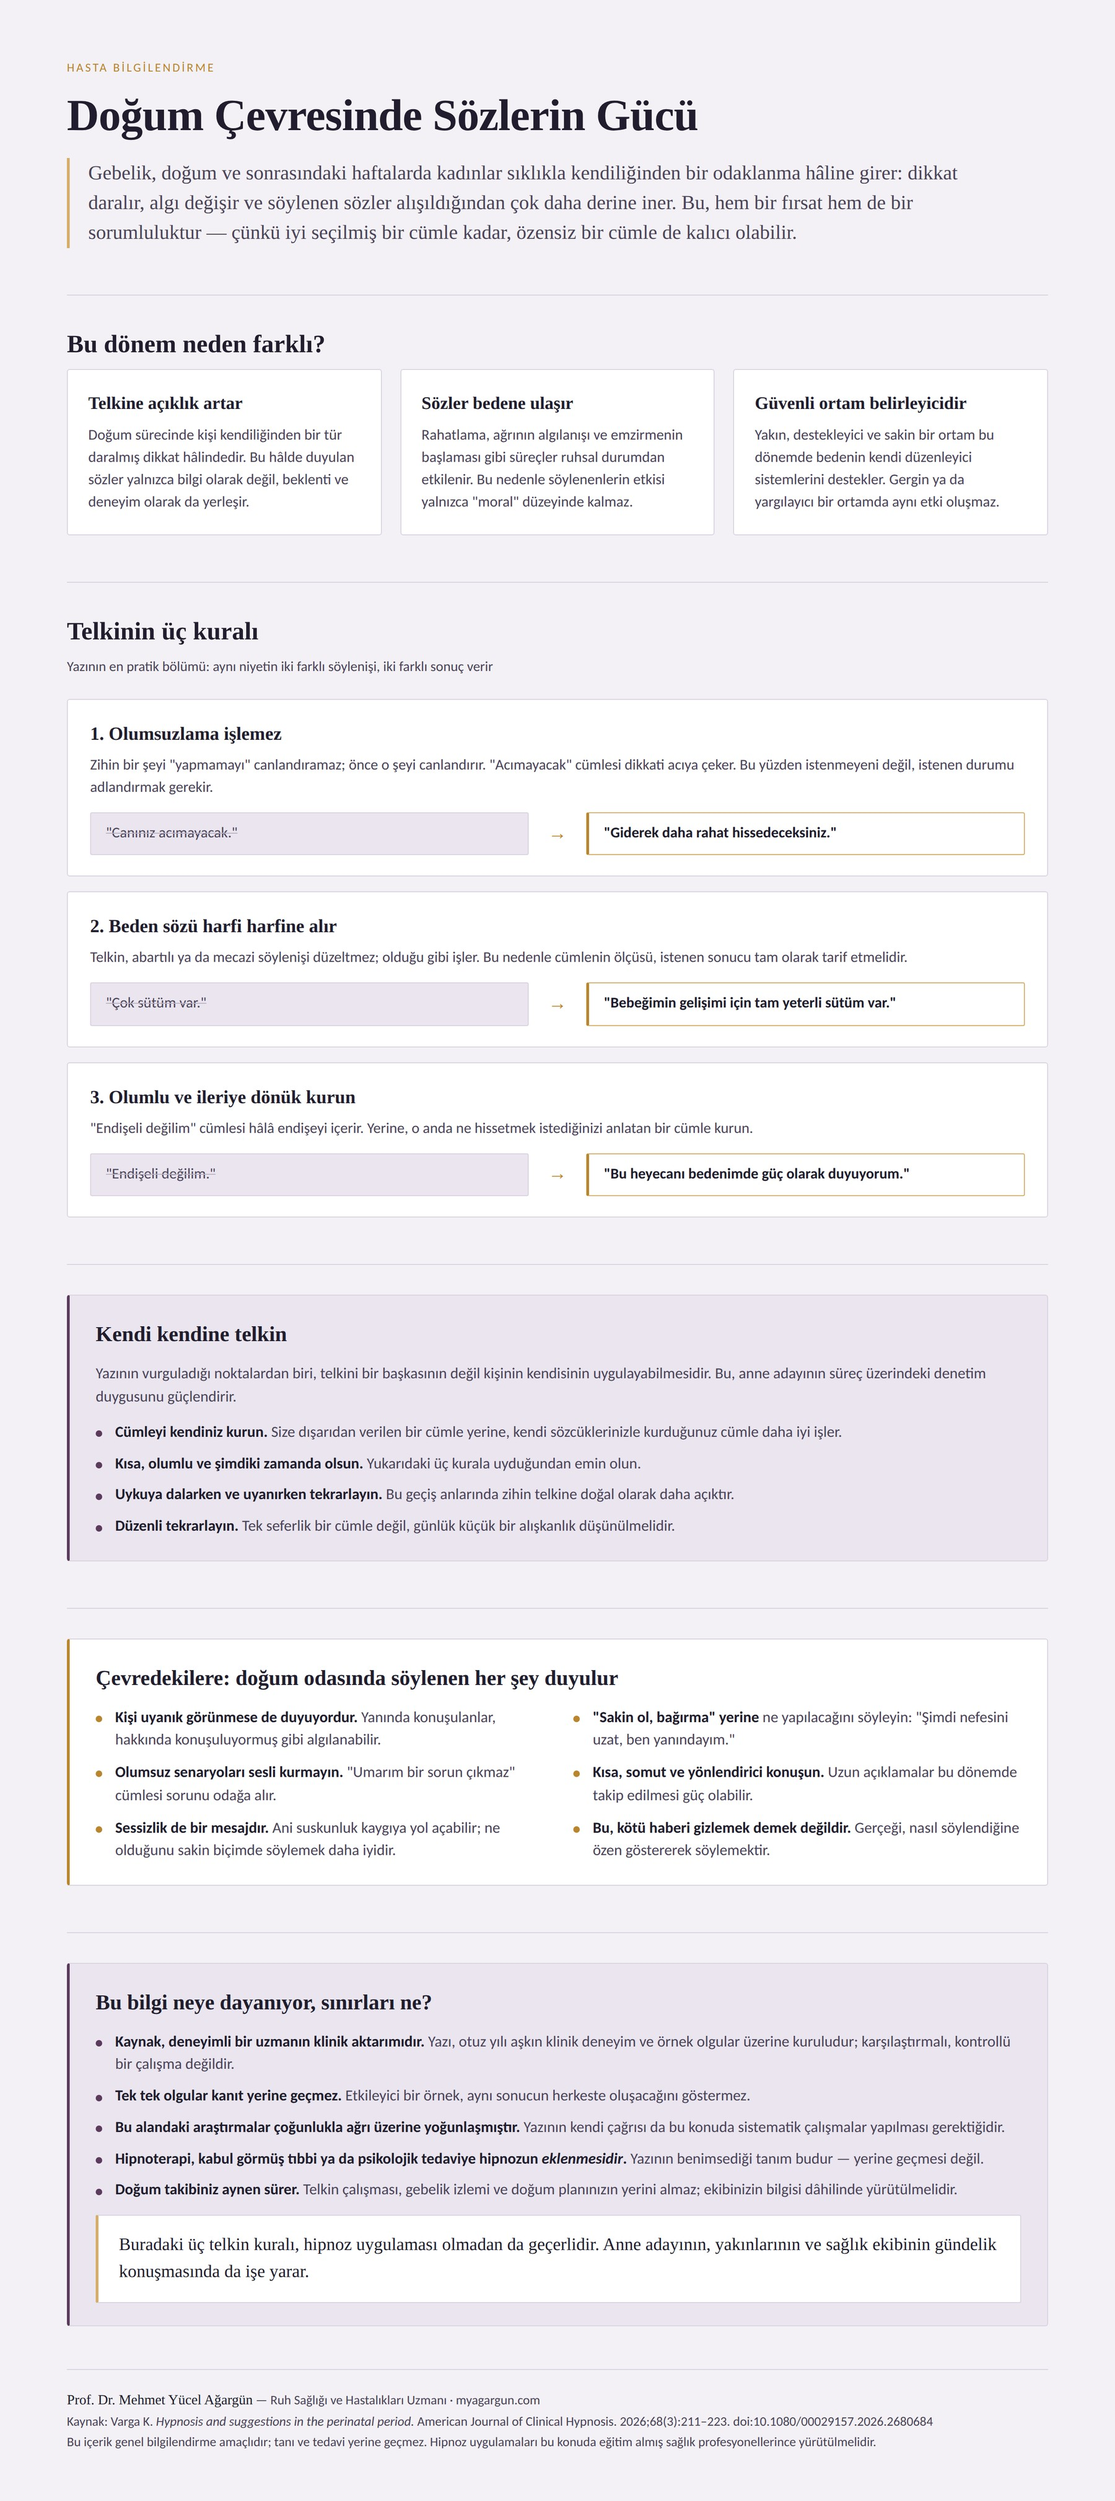
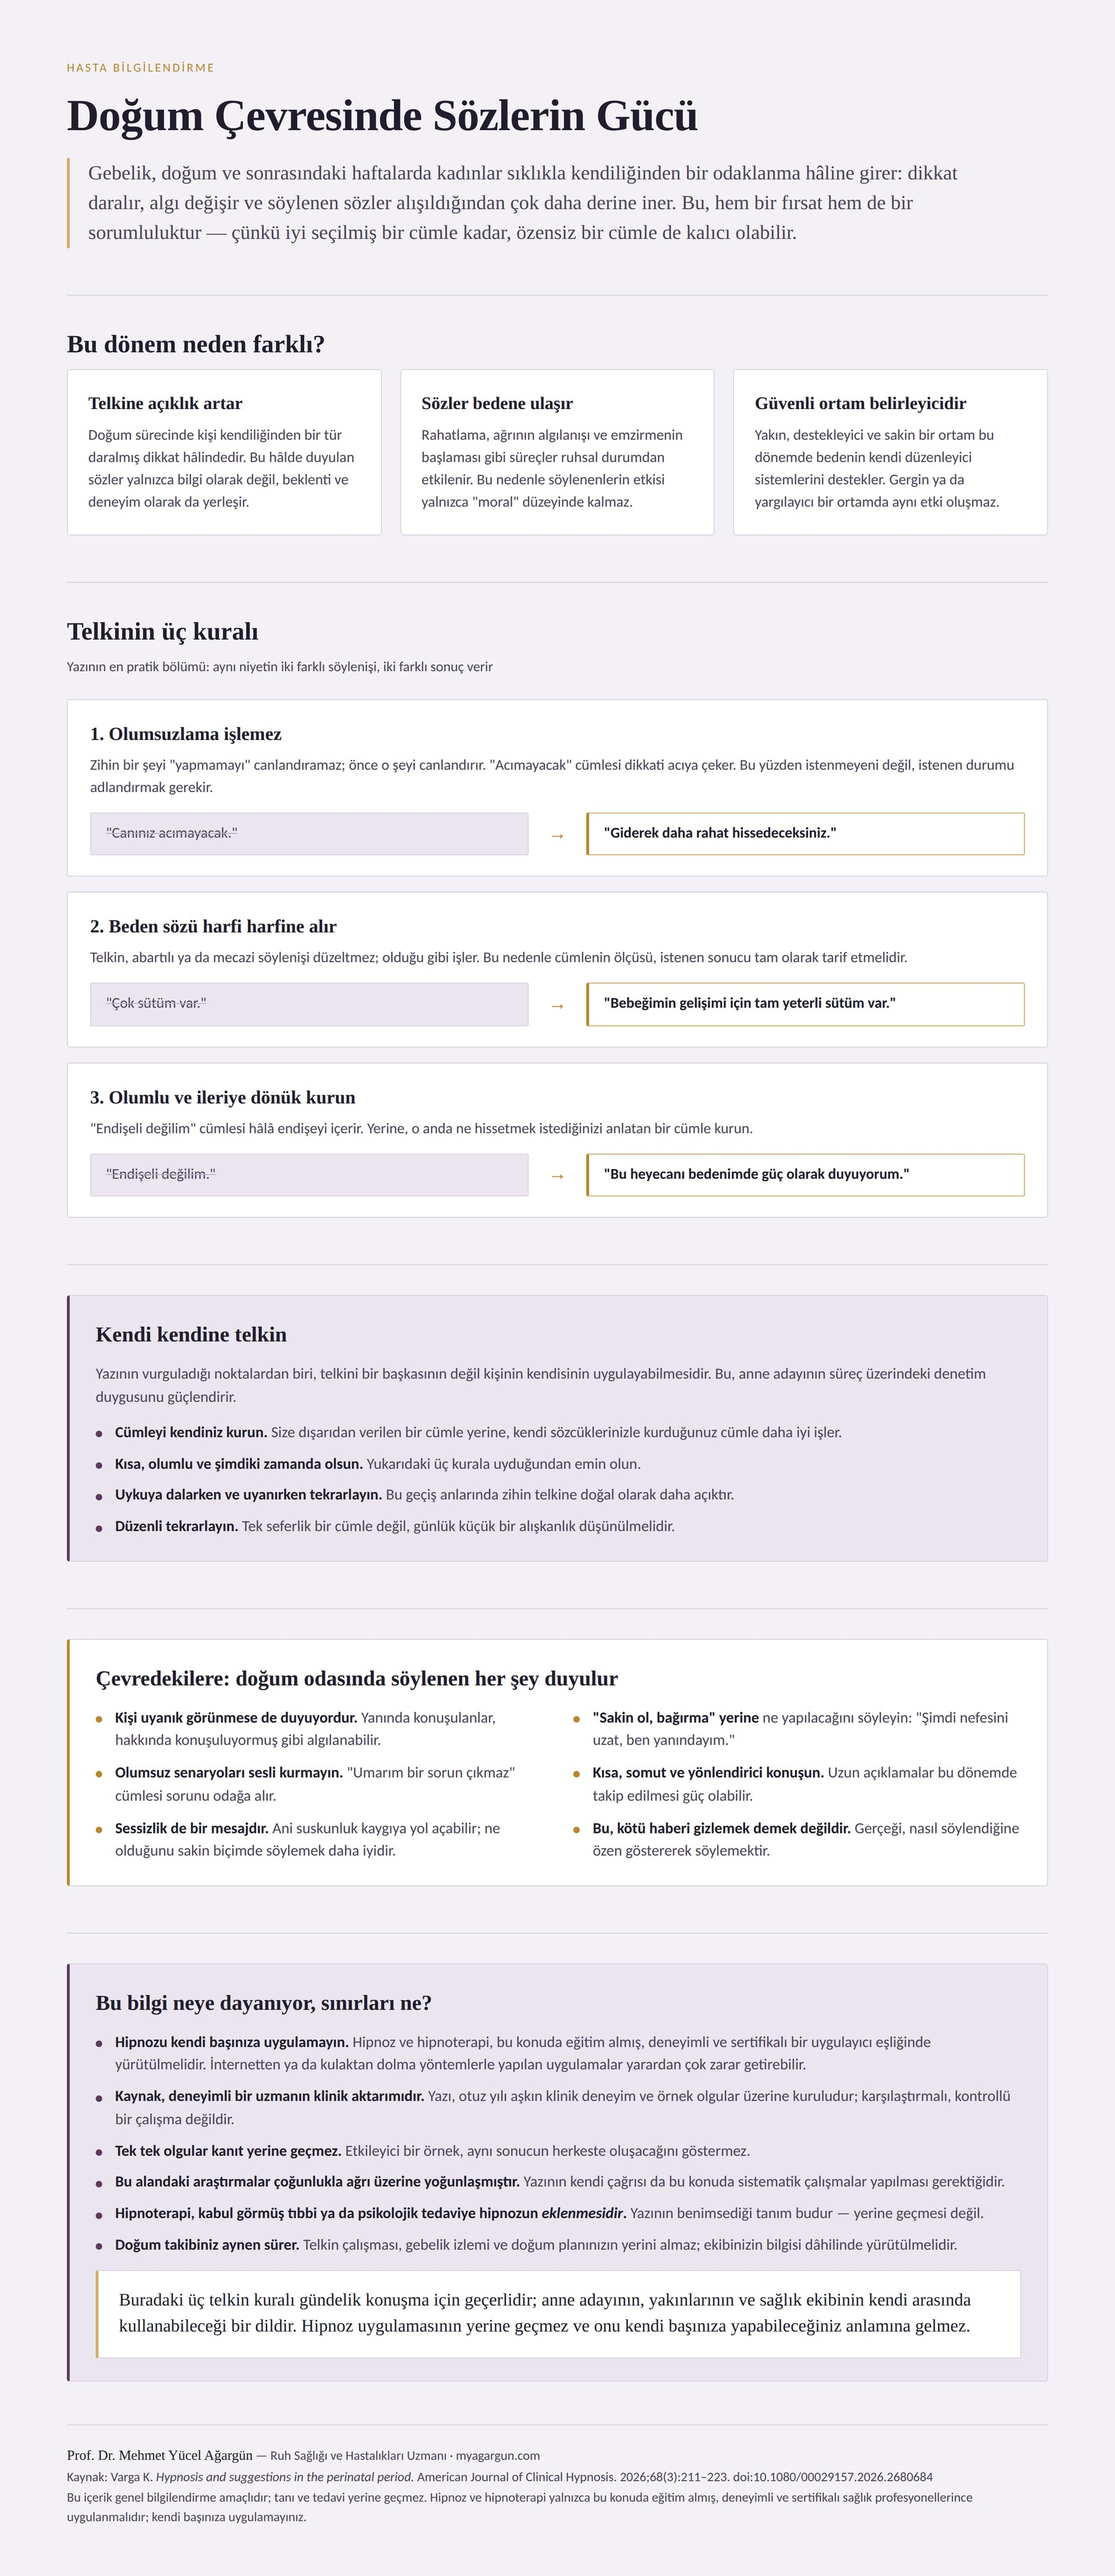
Doğum telkini yazısına hipnozu kendi başına uygulamama uyarısı ekle
Sınırlılıklar bölümünün ilk maddesi olarak eklendi; kapanış cümlesi ve
dipnot da hipnozun eğitimli, deneyimli ve sertifikalı bir uygulayıcı
eşliğinde yürütülmesi gerektiğini belirtecek biçimde güncellendi.
Sayfanın alt metni ve uyarı paragrafı da buna göre yenilendi.

Claude-Session: https://claude.ai/code/session_01JhEv671xvcj7NYuhVkgq1Y

diff --git a/yazilar/dogum-telkin-gucu.html b/yazilar/dogum-telkin-gucu.html
@@ -112,12 +112,12 @@
 
   <figure class="figure">
     <img src="../gorseller/dogum-telkin-gucu.jpg"
-         alt="Doğum çevresinde sözlerin gücünü anlatan infografik. Birinci bölüm bu dönemin neden farklı olduğunu açıklamaktadır: doğum sürecinde kişi kendiliğinden daralmış bir dikkat hâlindedir ve duyulan sözler yalnızca bilgi olarak değil beklenti ve deneyim olarak da yerleşir; rahatlama, ağrının algılanışı ve emzirmenin başlaması gibi süreçler ruhsal durumdan etkilendiği için söylenenlerin etkisi moral düzeyinde kalmaz; yakın, destekleyici ve sakin bir ortam bedenin kendi düzenleyici sistemlerini destekler, gergin ya da yargılayıcı bir ortamda aynı etki oluşmaz. İkinci bölüm telkinin üç kuralını örneklerle vermektedir. Birinci kural, olumsuzlamanın işlememesidir: zihin bir şeyi yapmamayı canlandıramaz, önce o şeyi canlandırır, bu nedenle "Canınız acımayacak" yerine "Giderek daha rahat hissedeceksiniz" denmelidir. İkinci kural, bedenin sözü harfi harfine almasıdır: "Çok sütüm var" yerine "Bebeğimin gelişimi için tam yeterli sütüm var" denmelidir. Üçüncü kural, cümlenin olumlu ve ileriye dönük kurulmasıdır: "Endişeli değilim" cümlesi hâlâ endişeyi içerdiğinden, "Bu heyecanı bedenimde güç olarak duyuyorum" gibi bir cümle tercih edilmelidir. Üçüncü bölüm kendi kendine telkini anlatmaktadır: cümle kişinin kendi sözcükleriyle kurulmalı, kısa, olumlu ve şimdiki zamanda olmalı, uykuya dalarken ve uyanırken tekrarlanmalı ve günlük bir alışkanlığa dönüştürülmelidir. Dördüncü bölüm çevredekilere seslenmektedir: kişi uyanık görünmese de duyar ve yanında konuşulanları hakkında konuşuluyormuş gibi algılayabilir; "Sakin ol, bağırma" yerine ne yapılacağı söylenmelidir; olumsuz senaryolar sesli kurulmamalıdır; konuşma kısa, somut ve yönlendirici olmalıdır; ani suskunluk kaygıya yol açabileceği için durum sakin biçimde anlatılmalıdır; bunun kötü haberi gizlemek anlamına gelmediği, gerçeğin nasıl söylendiğine özen gösterilerek söylenmesi olduğu belirtilmektedir. Son bölüm bilginin dayanağını ve sınırlarını açıklamaktadır: kaynak, deneyimli bir uzmanın otuz yılı aşkın klinik deneyimi ve örnek olgularına dayanan bir aktarımdır, karşılaştırmalı ve kontrollü bir çalışma değildir; tek tek olgular kanıt yerine geçmez; bu alandaki araştırmalar çoğunlukla ağrı üzerine yoğunlaşmıştır ve yazının kendi çağrısı sistematik çalışmalar yapılması gerektiğidir; hipnoterapi, kabul görmüş tıbbi ya da psikolojik tedaviye hipnozun eklenmesidir, yerine geçmesi değil; doğum takibi aynen sürer ve telkin çalışması gebelik izlemi ile doğum planının yerini almaz. Bölümün sonunda, üç telkin kuralının hipnoz uygulaması olmadan da geçerli olduğu ve anne adayının, yakınlarının ve sağlık ekibinin gündelik konuşmasında işe yaradığı belirtilmektedir."
-         loading="lazy" width="1800" height="4036">
+         alt="Doğum çevresinde sözlerin gücünü anlatan infografik. Birinci bölüm bu dönemin neden farklı olduğunu açıklamaktadır: doğum sürecinde kişi kendiliğinden daralmış bir dikkat hâlindedir ve duyulan sözler yalnızca bilgi olarak değil beklenti ve deneyim olarak da yerleşir; rahatlama, ağrının algılanışı ve emzirmenin başlaması gibi süreçler ruhsal durumdan etkilendiği için söylenenlerin etkisi moral düzeyinde kalmaz; yakın, destekleyici ve sakin bir ortam bedenin kendi düzenleyici sistemlerini destekler, gergin ya da yargılayıcı bir ortamda aynı etki oluşmaz. İkinci bölüm telkinin üç kuralını örneklerle vermektedir. Birinci kural, olumsuzlamanın işlememesidir: zihin bir şeyi yapmamayı canlandıramaz, önce o şeyi canlandırır, bu nedenle "Canınız acımayacak" yerine "Giderek daha rahat hissedeceksiniz" denmelidir. İkinci kural, bedenin sözü harfi harfine almasıdır: "Çok sütüm var" yerine "Bebeğimin gelişimi için tam yeterli sütüm var" denmelidir. Üçüncü kural, cümlenin olumlu ve ileriye dönük kurulmasıdır: "Endişeli değilim" cümlesi hâlâ endişeyi içerdiğinden, "Bu heyecanı bedenimde güç olarak duyuyorum" gibi bir cümle tercih edilmelidir. Üçüncü bölüm kendi kendine telkini anlatmaktadır: cümle kişinin kendi sözcükleriyle kurulmalı, kısa, olumlu ve şimdiki zamanda olmalı, uykuya dalarken ve uyanırken tekrarlanmalı ve günlük bir alışkanlığa dönüştürülmelidir. Dördüncü bölüm çevredekilere seslenmektedir: kişi uyanık görünmese de duyar ve yanında konuşulanları hakkında konuşuluyormuş gibi algılayabilir; "Sakin ol, bağırma" yerine ne yapılacağı söylenmelidir; olumsuz senaryolar sesli kurulmamalıdır; konuşma kısa, somut ve yönlendirici olmalıdır; ani suskunluk kaygıya yol açabileceği için durum sakin biçimde anlatılmalıdır; bunun kötü haberi gizlemek anlamına gelmediği, gerçeğin nasıl söylendiğine özen gösterilerek söylenmesi olduğu belirtilmektedir. Son bölüm bilginin dayanağını ve sınırlarını açıklamaktadır: hipnoz kendi başına uygulanmamalıdır, hipnoz ve hipnoterapi bu konuda eğitim almış, deneyimli ve sertifikalı bir uygulayıcı eşliğinde yürütülmelidir, internetten ya da kulaktan dolma yöntemlerle yapılan uygulamalar yarardan çok zarar getirebilir; kaynak, deneyimli bir uzmanın otuz yılı aşkın klinik deneyimi ve örnek olgularına dayanan bir aktarımdır, karşılaştırmalı ve kontrollü bir çalışma değildir; tek tek olgular kanıt yerine geçmez; bu alandaki araştırmalar çoğunlukla ağrı üzerine yoğunlaşmıştır ve yazının kendi çağrısı sistematik çalışmalar yapılması gerektiğidir; hipnoterapi, kabul görmüş tıbbi ya da psikolojik tedaviye hipnozun eklenmesidir, yerine geçmesi değil; doğum takibi aynen sürer ve telkin çalışması gebelik izlemi ile doğum planının yerini almaz. Bölümün sonunda, üç telkin kuralının gündelik konuşma için geçerli olduğu, anne adayının, yakınlarının ve sağlık ekibinin kendi arasında kullanabileceği bir dil olduğu, ancak hipnoz uygulamasının yerine geçmediği ve hipnozun kendi başına yapılabileceği anlamına gelmediği belirtilmektedir."
+         loading="lazy" width="1800" height="4156">
   </figure>
   <p class="figure-note">Görseli büyütmek için <a href="../gorseller/dogum-telkin-gucu.jpg" target="_blank" rel="noopener">tam boyutta açabilirsiniz</a>.</p>
 
-  <p class="disclaimer">Bu sayfadaki bilgiler yalnızca genel bilgilendirme amaçlıdır; tanı ve tedavi yerine geçmez. Görselin dayandığı yazı, deneyimli bir uzmanın klinik aktarımı ve örnek olgularından oluşmaktadır; karşılaştırmalı ve kontrollü bir araştırma değildir. Bu nedenle aktarılan örnekler, aynı sonucun herkeste oluşacağını göstermez. <strong>Telkin çalışması, gebelik izleminizin ve doğum planınızın yerini almaz</strong> — hipnoterapi, kabul görmüş tıbbi ya da psikolojik tedaviye hipnozun eklenmesi olarak tanımlanmaktadır. Hipnoz uygulamaları bu konuda eğitim almış sağlık profesyonellerince yürütülmelidir. Gebelikte ya da doğum sonrası dönemde süregelen kaygı, çökkünlük veya uyku sorunlarınız varsa bunu hekiminize bildiriniz; bu durumların kendi tedavileri vardır ve telkin çalışmasıyla ikame edilmemelidir.</p>
+  <p class="disclaimer">Bu sayfadaki bilgiler yalnızca genel bilgilendirme amaçlıdır; tanı ve tedavi yerine geçmez. Görselin dayandığı yazı, deneyimli bir uzmanın klinik aktarımı ve örnek olgularından oluşmaktadır; karşılaştırmalı ve kontrollü bir araştırma değildir. Bu nedenle aktarılan örnekler, aynı sonucun herkeste oluşacağını göstermez. <strong>Telkin çalışması, gebelik izleminizin ve doğum planınızın yerini almaz</strong> — hipnoterapi, kabul görmüş tıbbi ya da psikolojik tedaviye hipnozun eklenmesi olarak tanımlanmaktadır. <strong>Hipnoz ve hipnoterapi yalnızca bu konuda eğitim almış, deneyimli ve sertifikalı sağlık profesyonellerince uygulanmalıdır; kendi başınıza uygulamayınız.</strong> Görselde yer alan telkin kuralları gündelik konuşmaya ilişkindir ve bir hipnoz uygulaması tarifi değildir. Gebelikte ya da doğum sonrası dönemde süregelen kaygı, çökkünlük veya uyku sorunlarınız varsa bunu hekiminize bildiriniz; bu durumların kendi tedavileri vardır ve telkin çalışmasıyla ikame edilmemelidir.</p>
 
   <a class="back-link" href="../index.html#halka">← Ruh sağlığı hakkında bölümüne dön</a>
 </main>
